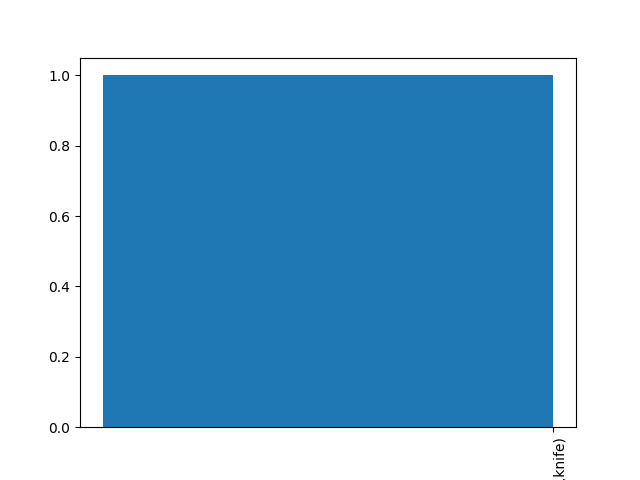
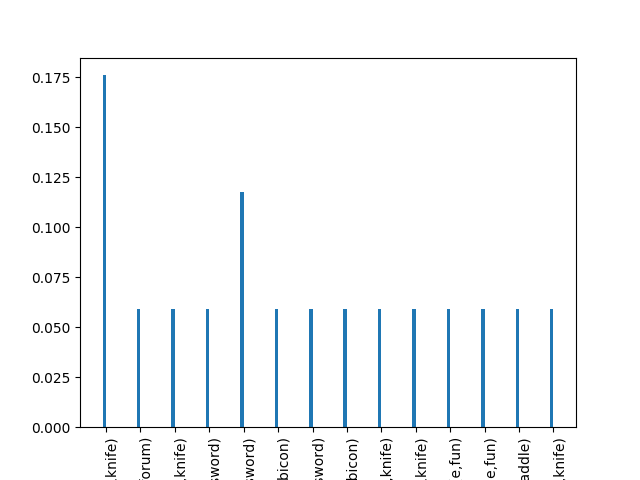
worx

diff --git a/proj/court.py b/proj/court.py
@@ -100,6 +100,6 @@ if __name__ == "__main__":
 
     with TIME("l1 calculation", x=True):
         #prag listener 
-        prag_listener_dist = prosecutor.L1(correction, smoke_test=False)
+        prag_listener_dist = prosecutor.L1(correction, smoke_test=True)
         plotter(prag_listener_dist, output="plots/prag_listener.png", addinfo="Prag. Listener distribution.\n\n- "+"Correction: "+str(correction)+"\n- alpha = "+str(alpha))
 
